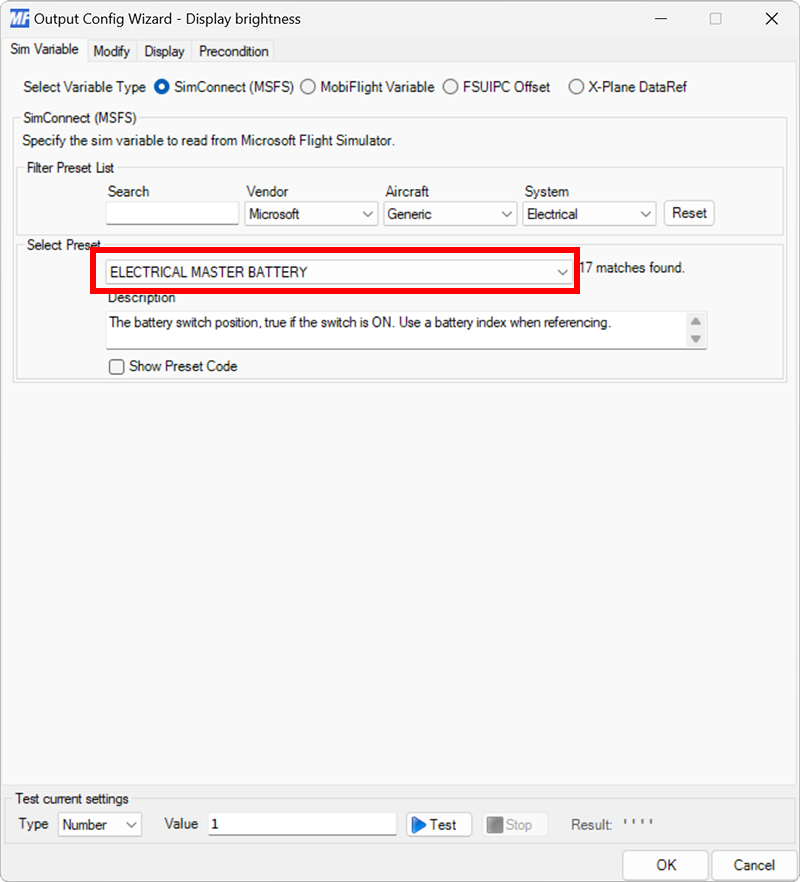
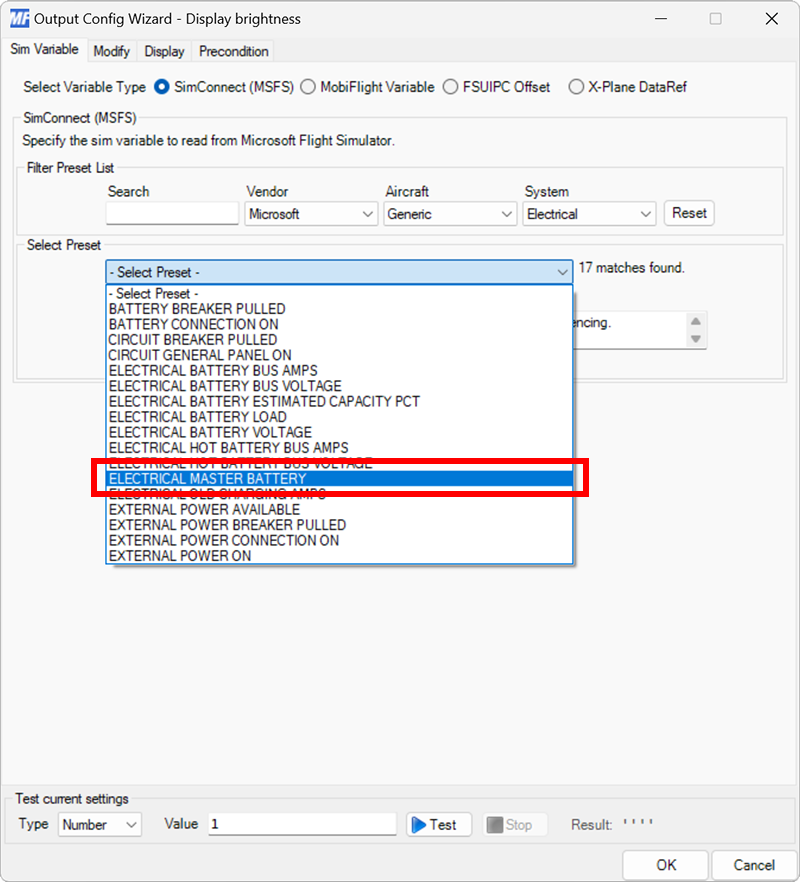
Fix output preset

Changed region(s): [[0.0938, 0.2755, 0.75, 0.6429]]

diff --git a/content/guides/seven-segment-brightness/_index.md b/content/guides/seven-segment-brightness/_index.md
@@ -14,9 +14,14 @@ The following steps demonstrate how to use an airplane's master battery switch s
 
 ### Create an output configuration for the brightness
 
-Add an output configuration named **Display brightness**. Select the **ELECTRICAL MASTER BATTERY** preset. This preset is `0` when the master battery is off and `1` when the master battery is on.
+Add an output configuration named **Display brightness**. Select the **ELECTRICAL MASTER BATTERY:index** preset, and when prompted set the index to **2**.
 
-{{< screenshot image="display-brightness-output-config.png" title="Screenshot of an output configuration with the ELECTRICAL MASTER BATTERY preset selected." >}}
+This preset is `0` when the master battery is off and `1` when the master battery is on.
+
+{{< screenshot image="display-brightness-output-config.png" title="Screenshot of an output configuration with the ELECTRICAL MASTER BATTERY:index preset selected." >}}
+
+> [!TIP]
+> The index value will vary depending on the aircraft.
 
 ### Add a transform modifier to battery output
 
